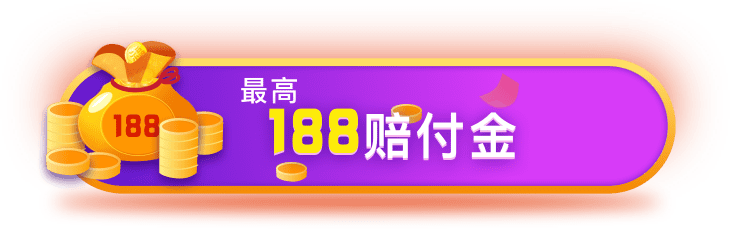
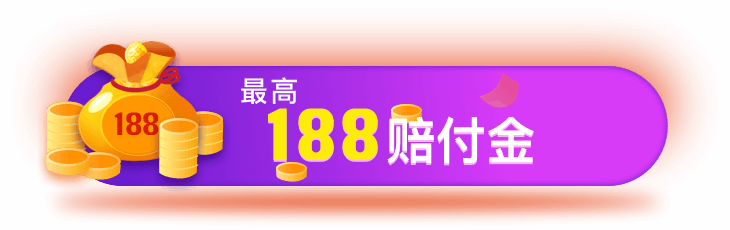
修改样式

diff --git a/src/pages/activity/jupei_page/index.js b/src/pages/activity/jupei_page/index.js
@@ -233,7 +233,7 @@ export default class juPei_page extends PureComponent {
                 <h2>活动规则</h2>
                 <div className={styles.rulesCont}>
                   <h3>活动时间：</h3>
-                  <p>2019年5月15日-2019年5月19日</p>
+                  <p>2019年6月13日</p>
                   <h3>活动对象：</h3>
                   <p>未提交授信且无逾期行为用户</p>
                   <h3>活动规则：</h3>

diff --git a/src/pages/activity/router.js b/src/pages/activity/router.js
@@ -26,4 +26,10 @@ export default [
 		title: '老用户专享',
 		component: () => import('pages/activity/wuyue_old_page')
 	},
+	{
+		path: '/activity/jupei_page',
+		title: '还到拒就赔',
+		arrowHide: 'empty',
+		component: () => import('pages/activity/jupei_page')
+	},
 ];
